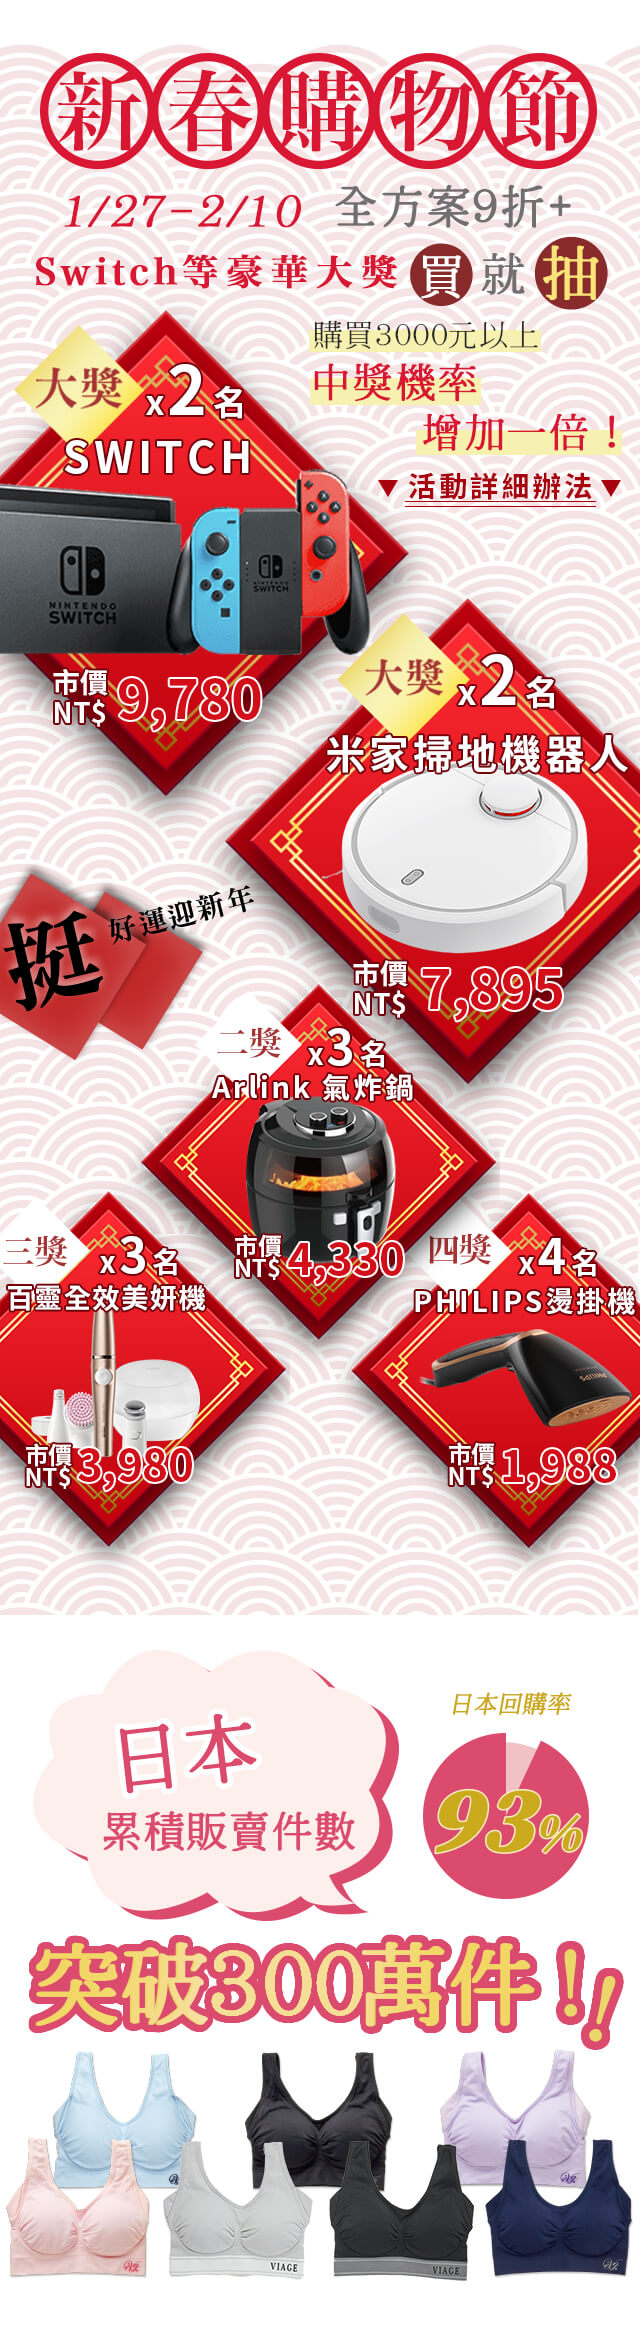
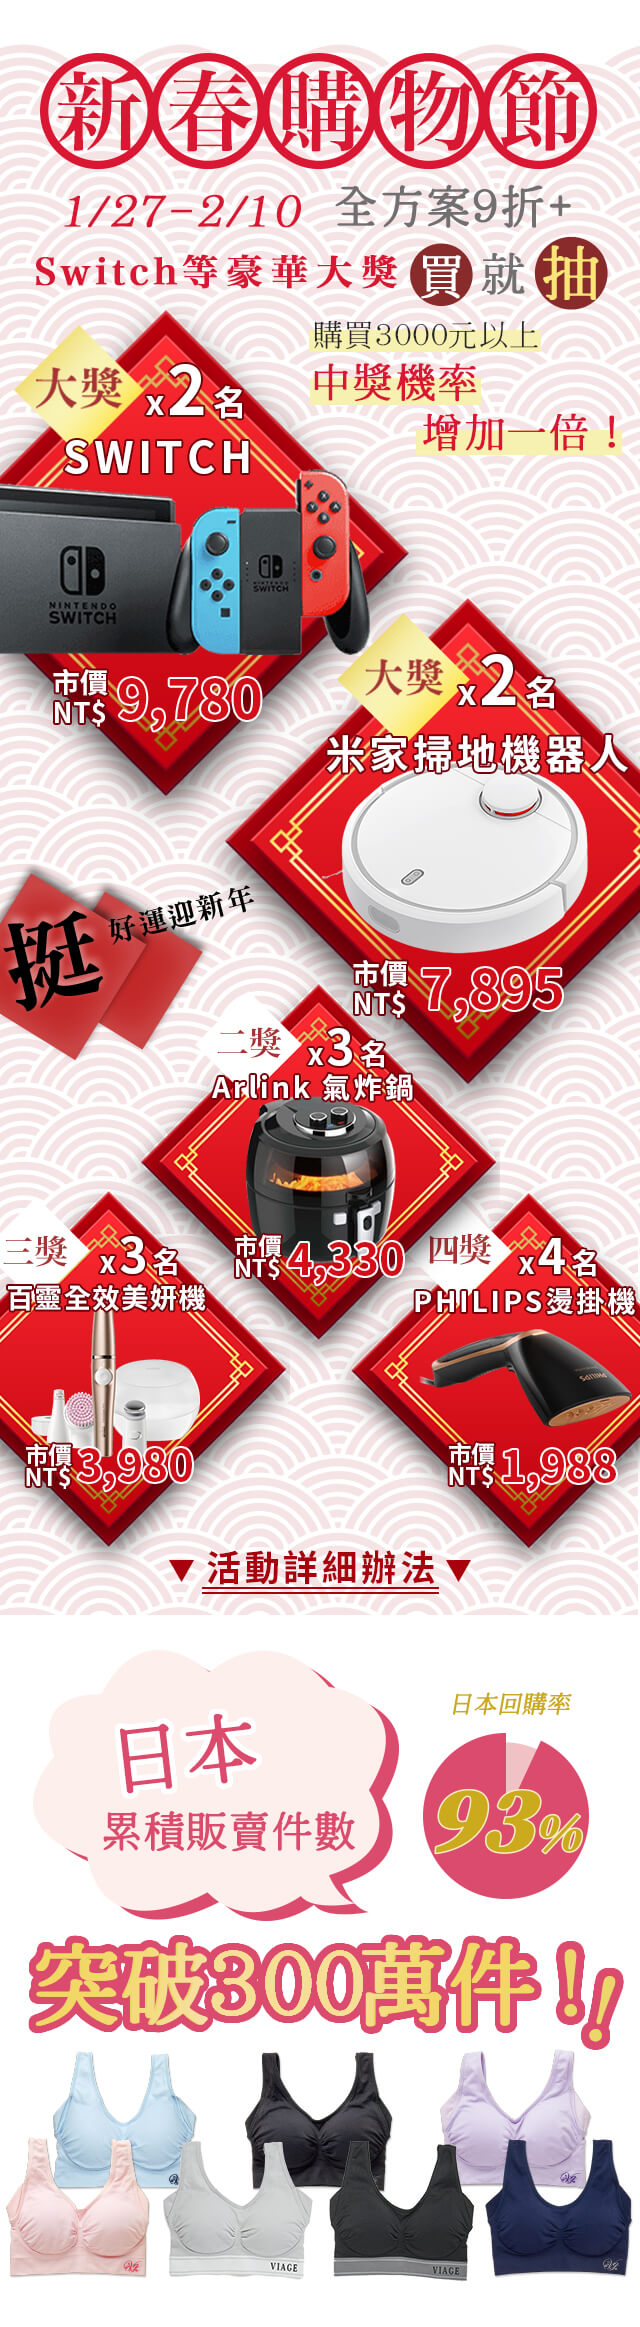
20210127_add detail

Changed region(s): [[0.2812, 0.6498, 0.7188, 0.6807], [0.5938, 0.1856, 0.9688, 0.2166]]

diff --git a/index.html b/index.html
@@ -25,6 +25,8 @@
     <link rel="stylesheet" href="css/style.css" type="text/css" media="all">
     <link rel="stylesheet" href="css/nav.css" type="text/css" media="all">
     <link href="https://fonts.googleapis.com/css?family=Noto+Serif+TC" rel="stylesheet">
+    <script src="https://code.jquery.com/jquery-3.4.1.min.js"
+    integrity="sha256-CSXorXvZcTkaix6Yvo6HppcZGetbYMGWSFlBw8HfCJo=" crossorigin="anonymous"></script>
     <!-- ▲自由編集箇所▲ -->
 </head>
 
@@ -78,7 +80,23 @@
                     <div class="fv">
                         <img src="images/vgdm30/01_banner.jpg" alt="">
                         <img class="mainview" src="images/vgdm30/01_fv.jpg" title="擁有完美胸型的捷徑-晚安立體美型內衣">
-                        <img src="images/vgdm30/02_million.jpg">
+                        <img class="anniversary_1" src="images/vgdm30/02_million.jpg">
+                        <div class="anniversary_2" style="display:none">
+                            <img src="./images/detail.png" alt="">
+                        </div>
+                        <!-- 彈跳視窗 -->
+                        <script>
+                            //週年慶活動辦法下拉選單
+                            $(".anniversary_2 img,.anniversary_2").hide();
+                            $('.anniversary_1').click(function (e) {
+                                e.preventDefault();
+                                $(".anniversary_2 img,.anniversary_2").attr("style", "display:block;");
+                            });
+                            $('.anniversary_2').click(function (e) {
+                                e.preventDefault();
+                                $(".anniversary_2 img,.anniversary_2").hide();
+                            });
+                        </script>
                         <img src="images/vgdm30/03_keypoint.jpg">
                         <img src="images/vgdm30/04_blogger.jpg">
                         <img src="images/vgdm30/05_magzine.jpg">
@@ -157,7 +175,7 @@
                 </div>
                 <a href=" https://line.me/R/ti/p/%40fhl1857j" target="blank" class="line_link">
                     <img id="line" src="images/s_line.png" alt=""></a>
-                
+
                 <!-- /GetButton.io widget -->
                 <!-- ▲自由編集箇所▲ -->
             </div>
@@ -190,8 +208,6 @@
     </div>
     <!-- wrapper End -->
     <!-- 網頁設計師編輯區塊 -->
-    <script src="https://code.jquery.com/jquery-3.4.1.min.js"
-        integrity="sha256-CSXorXvZcTkaix6Yvo6HppcZGetbYMGWSFlBw8HfCJo=" crossorigin="anonymous"></script>
     <script src="js/all.js"></script>
 </body>
 

diff --git a/css/style.css b/css/style.css
@@ -19,9 +19,36 @@
         width: 100%;
     }
 }
-/*----------------------------------------------------
-	offer _pc
-----------------------------------------------------*/
+.anniversary_1{
+    cursor: pointer;
+}
+.anniversary_2 {
+    display:none;
+    position:fixed;
+    z-index:98;
+    top:-3%;
+    right:-33.3vh;
+    left:-33.3vh;
+}
+.anniversary_2 img{
+    display:none;
+    width:30%;
+}
+
+@media screen and (max-width: 768px){
+    .anniversary_2 {
+        display:none;
+        position:fixed;
+        z-index:98;
+        top:5%;
+        right:-33.3vh;
+        left:-33.3vh;
+    }
+    .anniversary_2 img{
+        display:none;
+        width:50%;
+    }
+}
 
 .cv {
     width: 100%;
